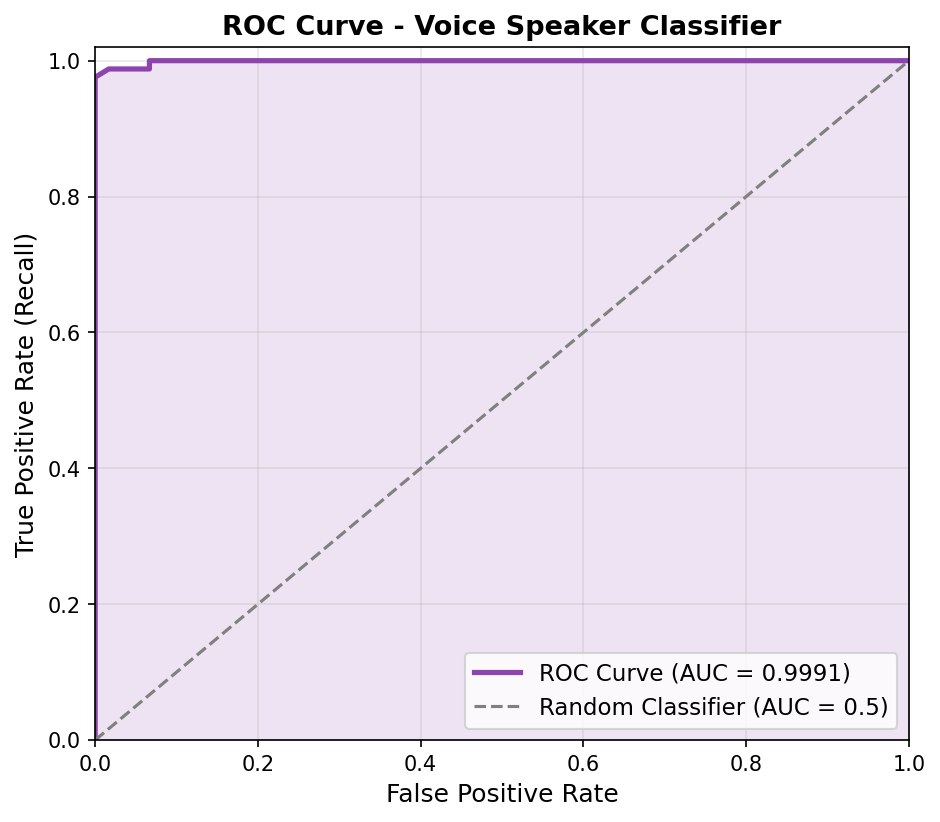
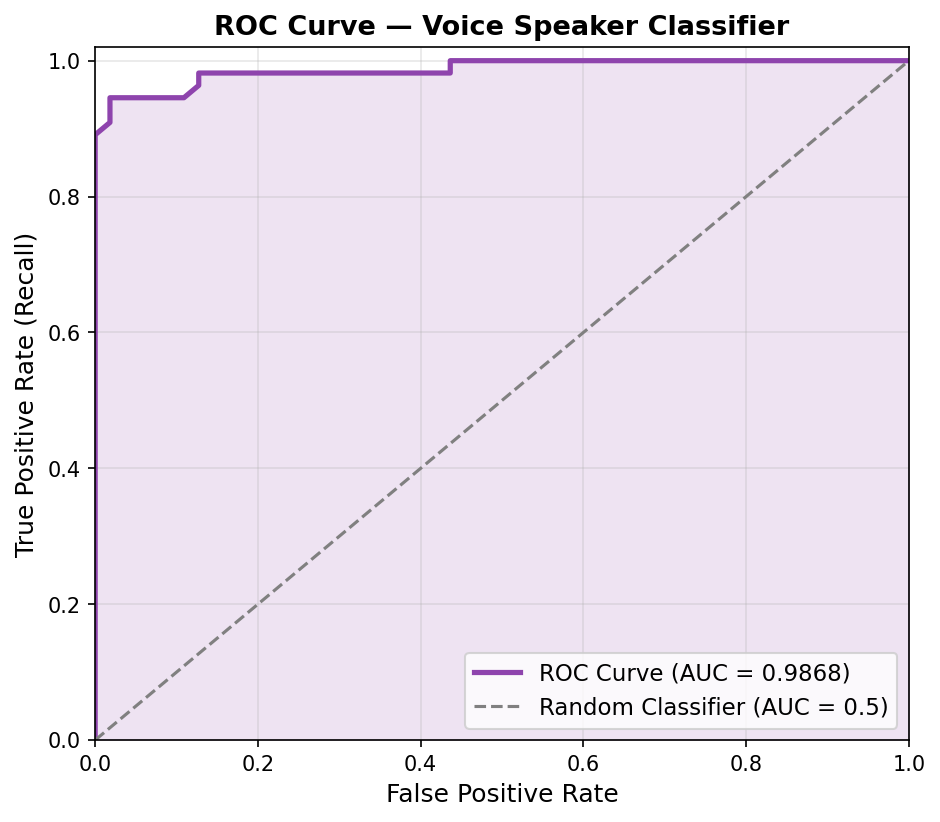
model normalization implemented

Changed region(s): [[0.0926, 0.0, 0.833, 0.1825], [0.8638, 0.7908, 0.8947, 0.8516]]

diff --git a/updated_classifier.py b/updated_classifier.py
@@ -49,7 +49,7 @@ N_MELS           = 128
 IMG_SIZE         = 128
 INPUT_SIZE       = IMG_SIZE * IMG_SIZE            # 16384
 
-HIDDEN_SIZE      = 64
+HIDDEN_SIZE      = 5
 OUTPUT_SIZE      = 1
 
 LEARNING_RATE    = 0.01
@@ -143,10 +143,11 @@ def clip_to_spectrogram(y: np.ndarray) -> np.ndarray:
     Compute a log-Mel spectrogram, resize to IMG_SIZE x IMG_SIZE,
     and flatten to a 1D vector of length 16384.
 
-    NOTE: No per-clip normalization is applied here. Global normalization
-    (z-score using training set mean/std) is applied after the full dataset
-    is assembled, so that loudness differences across recordings are preserved
-    as meaningful signal until they are removed consistently across all clips.
+    Per-clip normalization is intentionally NOT applied here.
+    Global z-score normalization (fit on training set, applied to both
+    train and test) is performed after the full dataset is assembled.
+    This preserves cross-recording loudness and noise-floor differences
+    as raw signal, then removes them consistently and without data leakage.
     """
     mel    = librosa.feature.melspectrogram(y=y, sr=SAMPLE_RATE,
                                              n_mels=N_MELS, fmax=8000)
@@ -158,6 +159,7 @@ def clip_to_spectrogram(y: np.ndarray) -> np.ndarray:
         img    = img.resize((IMG_SIZE, IMG_SIZE), PILImage.LANCZOS)
         mel_db = np.array(img)
 
+    # Return raw dB values — no per-clip normalization
     return mel_db.flatten().astype(np.float32)
 
 
@@ -382,7 +384,7 @@ def compute_roc(y_true: np.ndarray, y_scores: np.ndarray) -> tuple:
 
     fprs = np.array(fprs)
     tprs = np.array(tprs)
-    return fprs, tprs, abs(np.trapz(tprs, fprs))
+    return fprs, tprs, abs(np.trapezoid(tprs, fprs))
 
 
 def compute_confusion_matrix(y_true: np.ndarray, y_pred: np.ndarray) -> np.ndarray:
